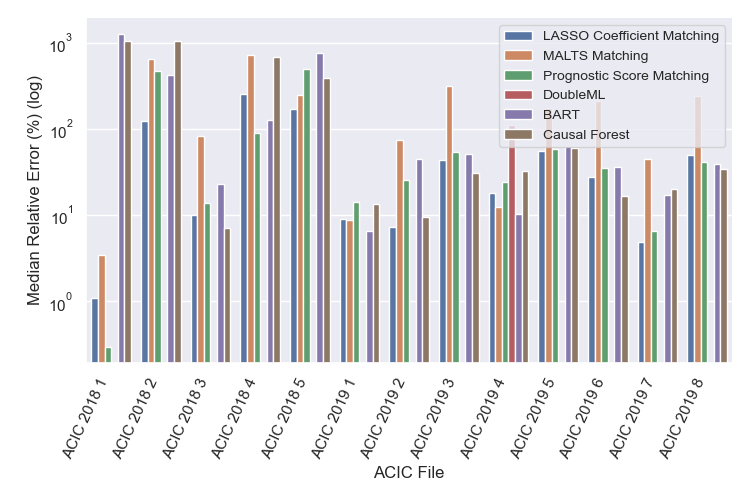
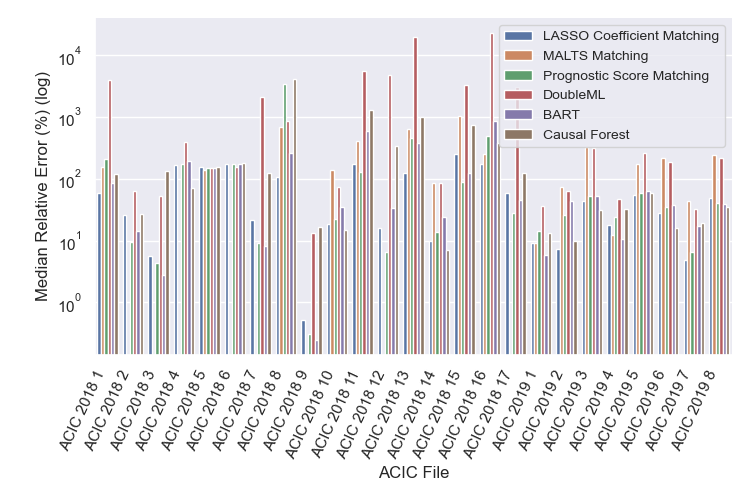
modified DML code

diff --git a/other_methods/doubleml.py b/other_methods/doubleml.py
@@ -1,4 +1,4 @@
-from econml.dml import LinearDML
+from econml.dml import LinearDML, SparseLinearDML
 import numpy as np
 import pandas as pd
 from sklearn.model_selection import StratifiedKFold
@@ -18,7 +18,7 @@ def doubleml(outcome, treatment, data, n_splits=2, gen_skf=None):
         T = np.array(df_train.loc[:, treatment])
         X_est = np.array(df_est.loc[:, covariates])
         est = LinearDML(discrete_treatment=True, featurizer=None, linear_first_stages=False)
-        est.fit(Y=Y, T=T, X=X)
+        est.fit(Y=Y, T=T, X=X, W=X)
         this_te_est = est.effect(X=X_est)
         this_index = df_est.index
         cate_est_i = pd.DataFrame(this_te_est, index=this_index, columns=['CATE'])
@@ -33,6 +33,6 @@ def doubleml_sample(outcome, treatment, df_train, sample, covariates):
     X = np.array(df_train.loc[:, covariates])
     Y = np.array(df_train.loc[:, outcome])
     T = np.array(df_train.loc[:, treatment])
-    est = SparseLinearDML(discrete_treatment=True)
+    est = LinearDML(discrete_treatment=True, featurizer=None, linear_first_stages=False)
     est.fit(Y=Y, T=T, X=X)
     return est.effect(sample)
